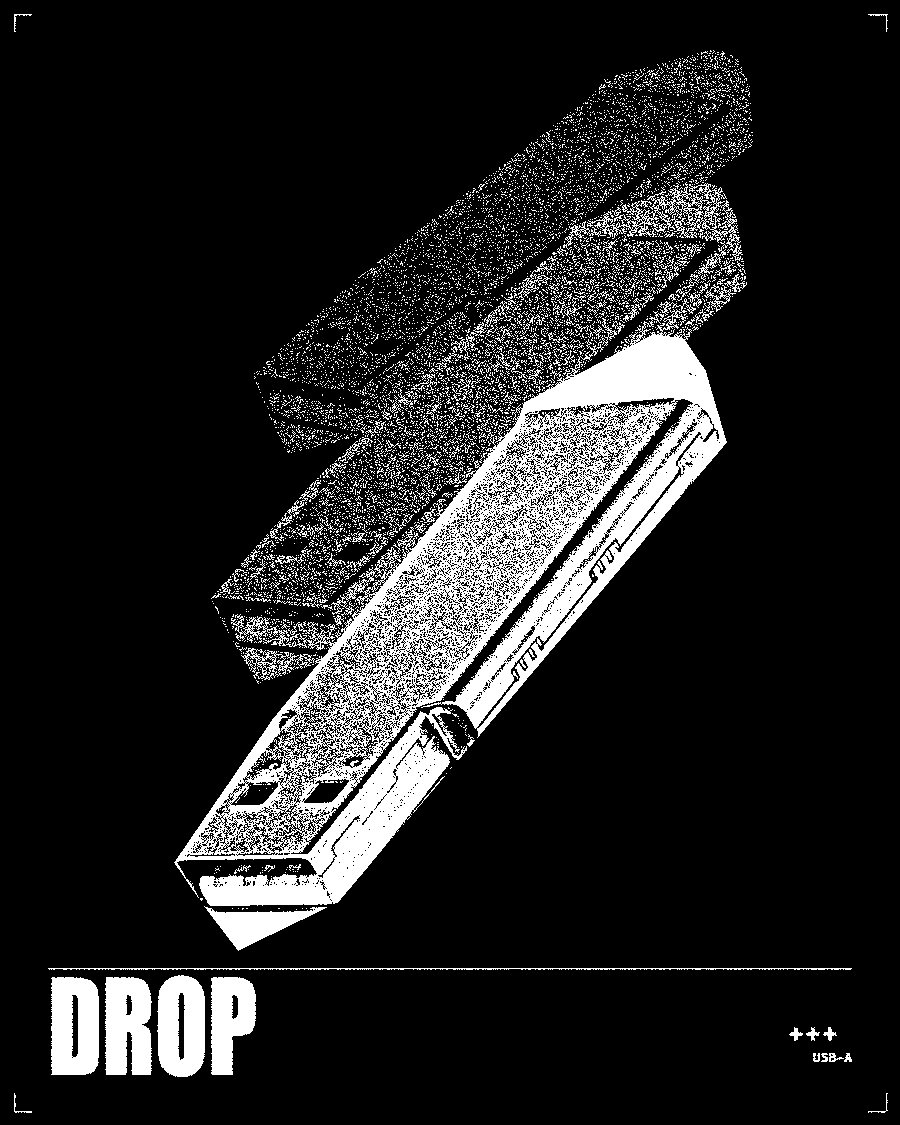
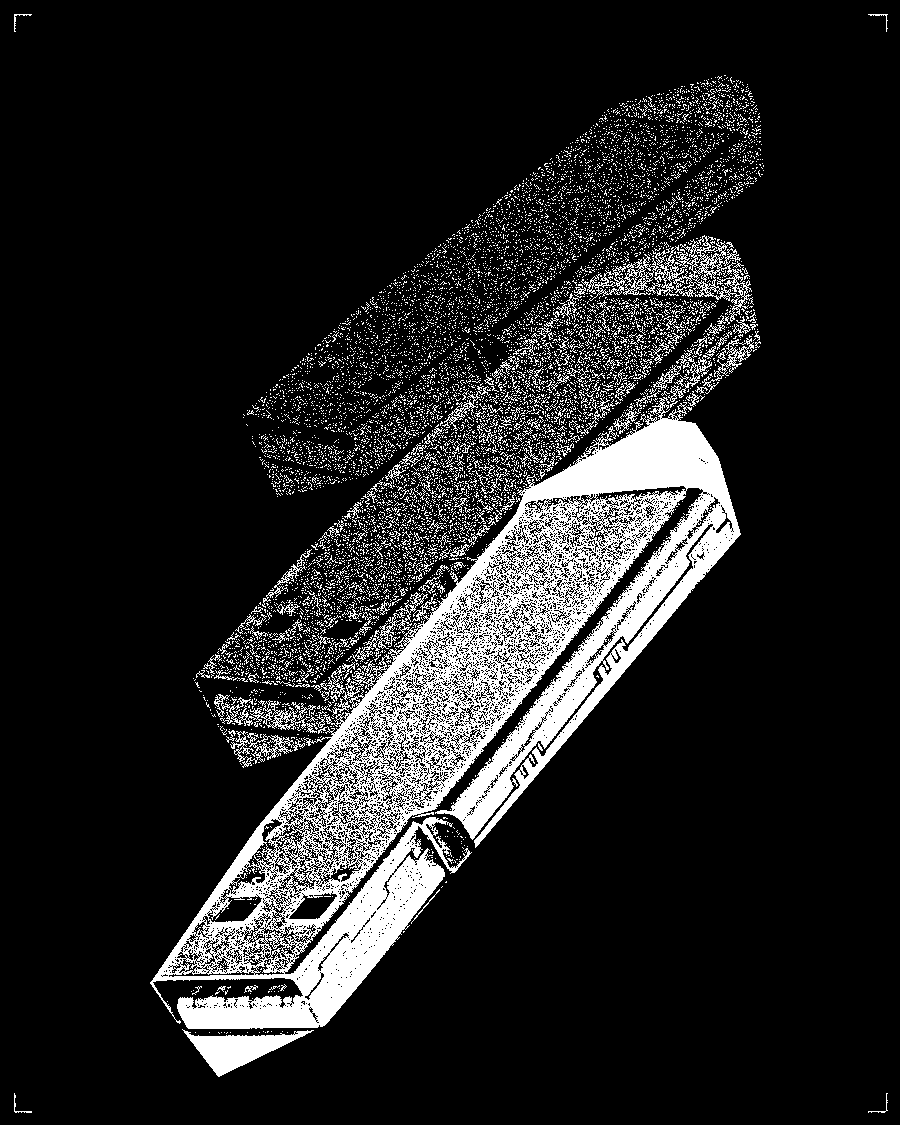
Swap BYPASS for CORE; DROP photo only

diff --git a/_includes/vibe-layer.html b/_includes/vibe-layer.html
@@ -6,7 +6,7 @@
   Styles: _sass/_vibe-sides.scss. Pieces marked --minor drop out on narrower gutters.
 {% endcomment %}
 {% comment %} Grain-print posters: three slots per page, a different rotation of the six per page. {% endcomment %}
-{% assign vibe_posters = "terminal,bypass,mainframe,drop,core,watched,intercept,backbone,vapor,archive,orbit,pivot,array,cipher,exfil,0day,relay" | split: "," %}
+{% assign vibe_posters = "terminal,core,mainframe,drop,watched,intercept,backbone,vapor,archive,orbit,pivot,array,cipher,exfil,0day,relay" | split: "," %}
 {% assign vn = vibe_posters | size %}
 {% if page.url == "/" %}{% assign vp0 = 0 %}{% else %}{% assign vh = 7 %}{% assign vchars = page.url | downcase | split: "" %}{% for c in vchars %}{% assign vi = "abcdefghijklmnopqrstuvwxyz0123456789-_./" | split: c | first | size %}{% assign vh = vh | times: 29 | plus: vi | modulo: 99991 %}{% endfor %}{% assign vp0 = vh | modulo: vn %}{% endif %}
 {% assign vp1 = vp0 | plus: 1 | modulo: vn %}{% assign vp2 = vp0 | plus: 2 | modulo: vn %}{% assign vp3 = vp0 | plus: 3 | modulo: vn %}

diff --git a/_sass/_vibe-sides.scss b/_sass/_vibe-sides.scss
@@ -243,7 +243,6 @@ html.vibe-wait .vibe-layer { opacity: 0; }
   .vibe-ph--archive   { --m: url("../../images/vibe/poster-archive.png?v=#{$vibe-v}"); }
   .vibe-ph--terminal  { --m: url("../../images/vibe/poster-terminal.png?v=#{$vibe-v}"); }
   .vibe-ph--drop      { --m: url("../../images/vibe/poster-drop.png?v=#{$vibe-v}"); }
-  .vibe-ph--bypass    { --m: url("../../images/vibe/poster-bypass.png?v=#{$vibe-v}"); }
   .vibe-slot { --sw: clamp(190px, 72%, 330px); --ar: 900 / 1125; }
   .vibe-ph.vibe-slot   { --x: var(--sx); --y: var(--sy); --w: var(--sw); --o: 0.34; --b: 0px; }
   .vibe-card.vibe-slot { --x: calc(var(--sx) - 6px); --y: calc(var(--sy) - 8px); --w: calc(var(--sw) + 12px); opacity: min(0.92, calc(var(--vibe-paper-o) + 0.3)); }
